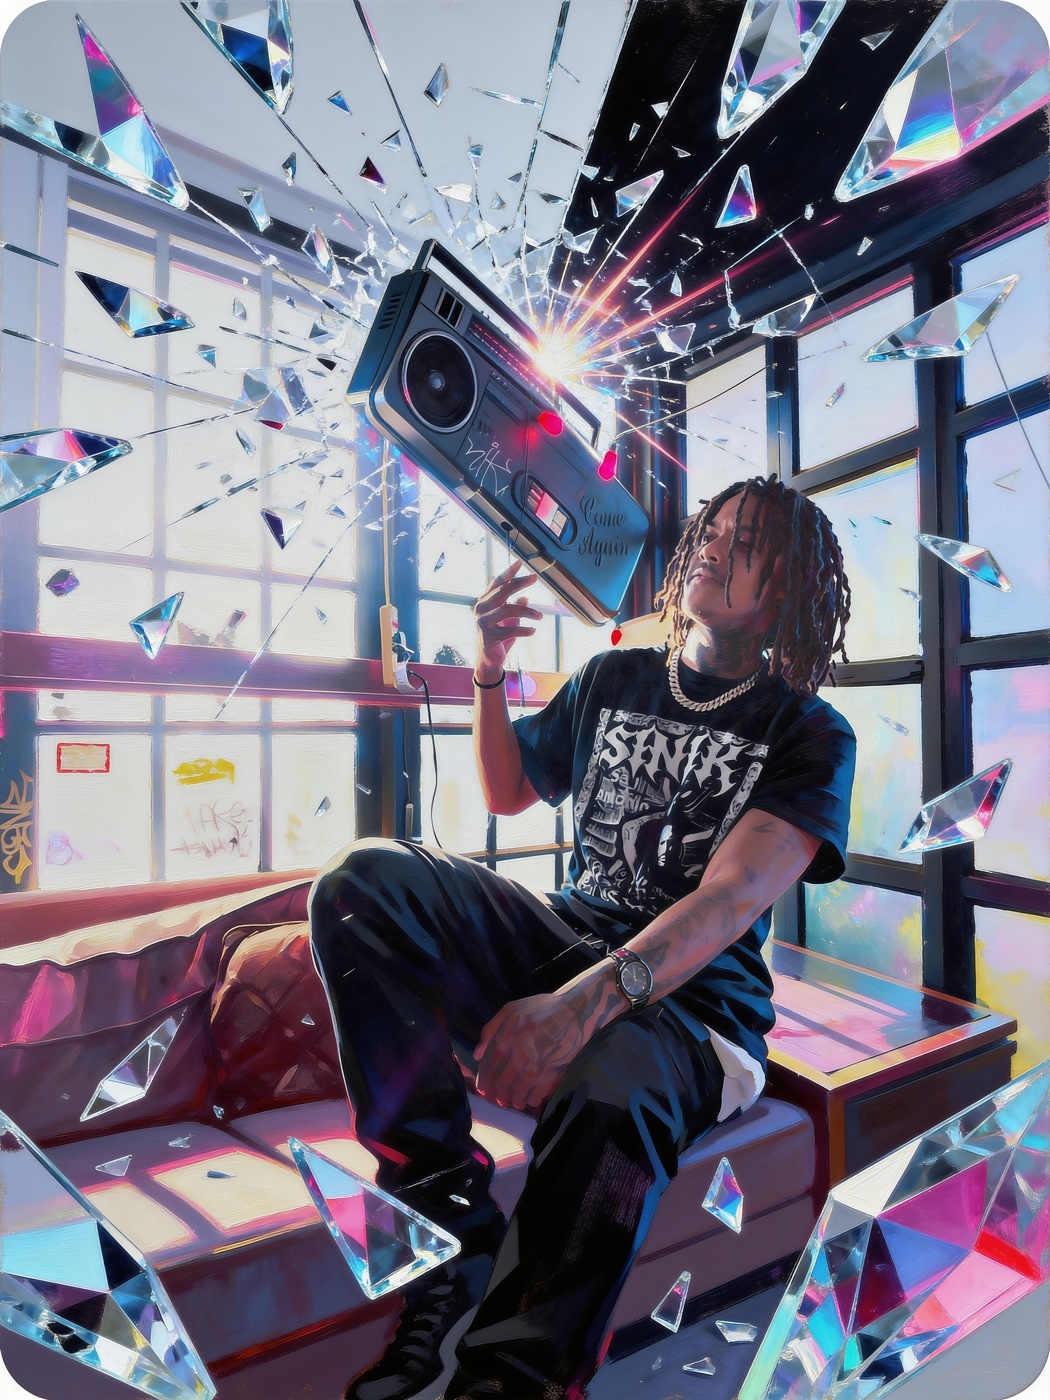
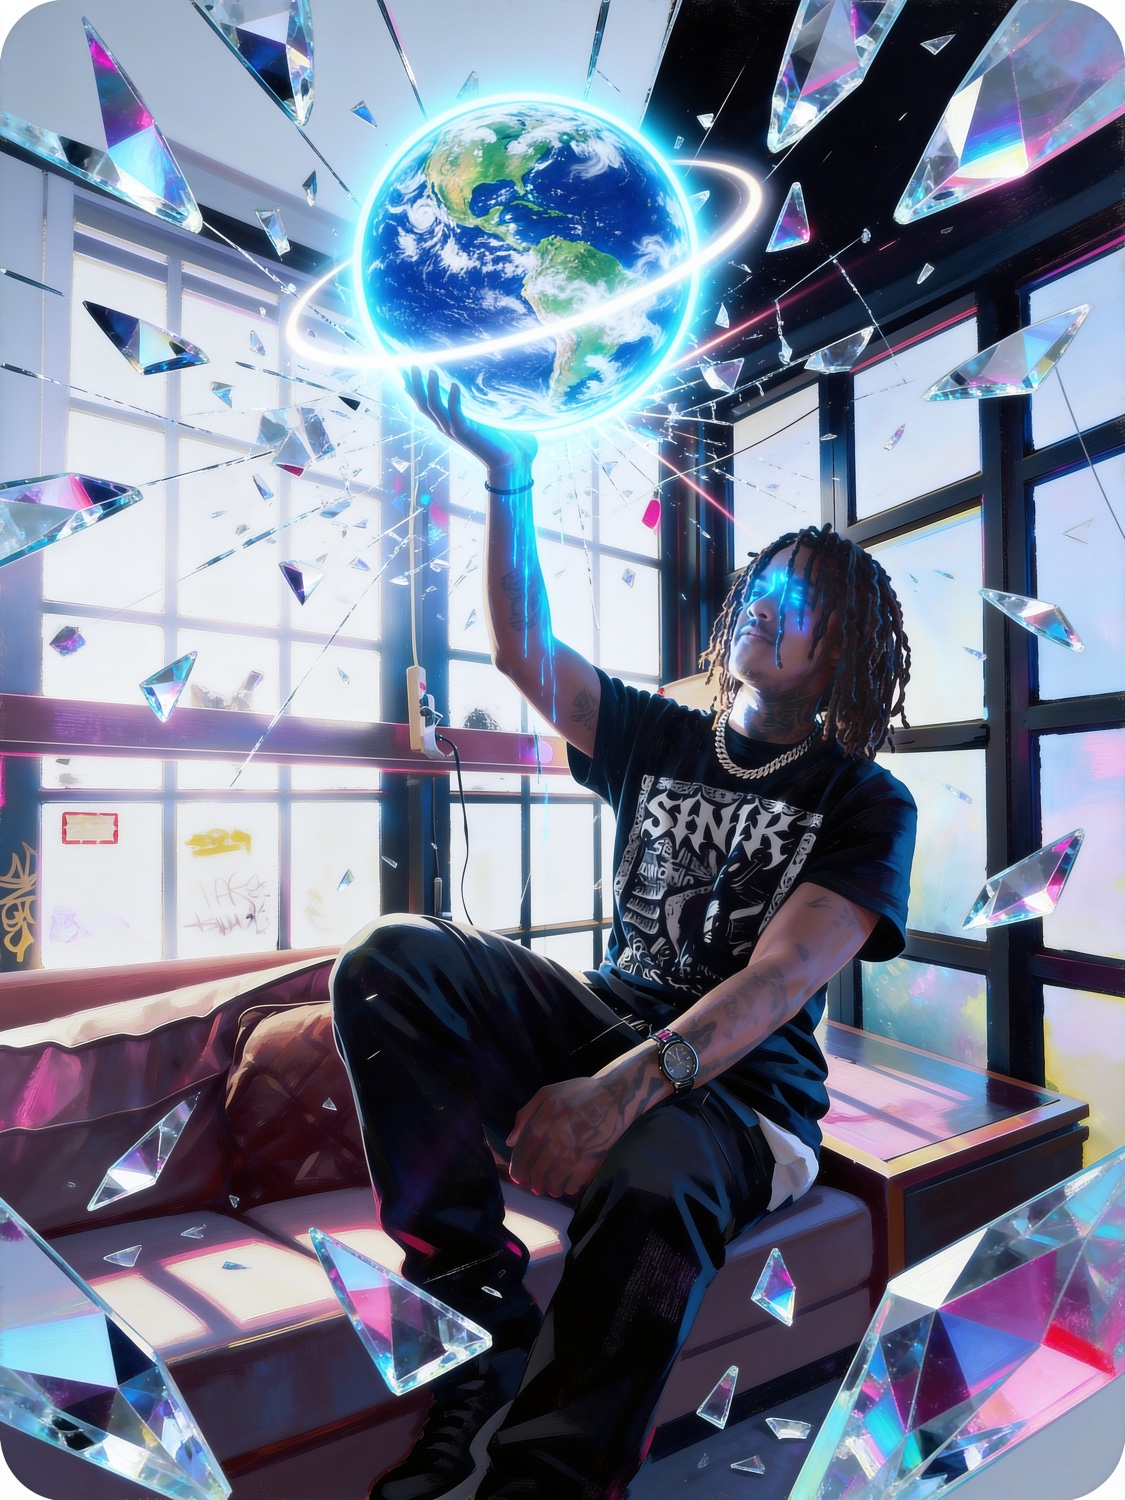
0fftheprint: VIRGOSGATEWAY holds the world, HP unknown
Earth composited into his raised hand (Seedream edit on the crystal art, keeps
face/pose/scene) — his own 'the world' inspo made literal. HP is now ??? with a
flicker; the render supports non-numeric HP and the power fallback is guarded
against NaN.

diff --git a/0fftheprint/index.html b/0fftheprint/index.html
@@ -2724,6 +2724,10 @@
     text-shadow:1px 1px 0 #fff, 2px 2px 0 rgba(58,215,232,.55);
   }
   .poke.amazing:hover .poke-art{filter:saturate(1.3) contrast(1.08) brightness(1.04);}
+
+  /* an unknown HP is a statement, so let it flicker */
+  .poke-hp b.unknown{letter-spacing:.06em;animation:hp-flicker 2.8s ease-in-out infinite;}
+  @keyframes hp-flicker{0%,100%{opacity:1;}45%{opacity:.5;}52%{opacity:1;}58%{opacity:.72;}}
 </style>
 </head>
 <body>
@@ -3337,12 +3341,13 @@
       : isDiamond ? `<div class="poke-diamond">&#9670; DIAMOND</div>`
       : isVampy ? `<div class="poke-cross"></div>`
       : isStone ? `<div class="poke-bone">PREHISTORIC</div>`
-      : (isDarkLord || isWarlord || isAmazing) ? `<div class="poke-orb">${esc(v.cost_orb || (v.moves||[]).length || 2)}</div><div class="poke-power">${esc(v.power || (hp ? hp * 20 : 4000))}</div>`
+      : (isDarkLord || isWarlord || isAmazing) ? `<div class="poke-orb">${esc(v.cost_orb || (v.moves||[]).length || 2)}</div><div class="poke-power">${esc(v.power || (Number.isFinite(+hp) && +hp ? +hp * 20 : 4000))}</div>`
       : '';
     const trainerClass = isTrainer ? ' trainer' : '';
     const tagTeamClass = isTagTeam ? ' tag-team' : '';
     const sourceClass = ' poke-' + source;
-    const hpHtml = hp ? `<div class="poke-hp">HP <b>${esc(hp)}</b></div>` : '';
+    const hpUnknown = typeof hp === 'string' && !Number.isFinite(+hp);
+    const hpHtml = hp ? `<div class="poke-hp">HP <b class="${hpUnknown ? 'unknown' : ''}">${esc(hp)}</b></div>` : '';
     return `<div class="poke ${esc(rarity)}${trainerClass}${tagTeamClass}${sourceClass}" data-src="${esc(source)}" data-idx="${i}" data-type="${esc(type)}" data-link="${esc(v.link || '#')}">
       ${cornersHtml}${teraHtml}
       <div class="poke-inner">
